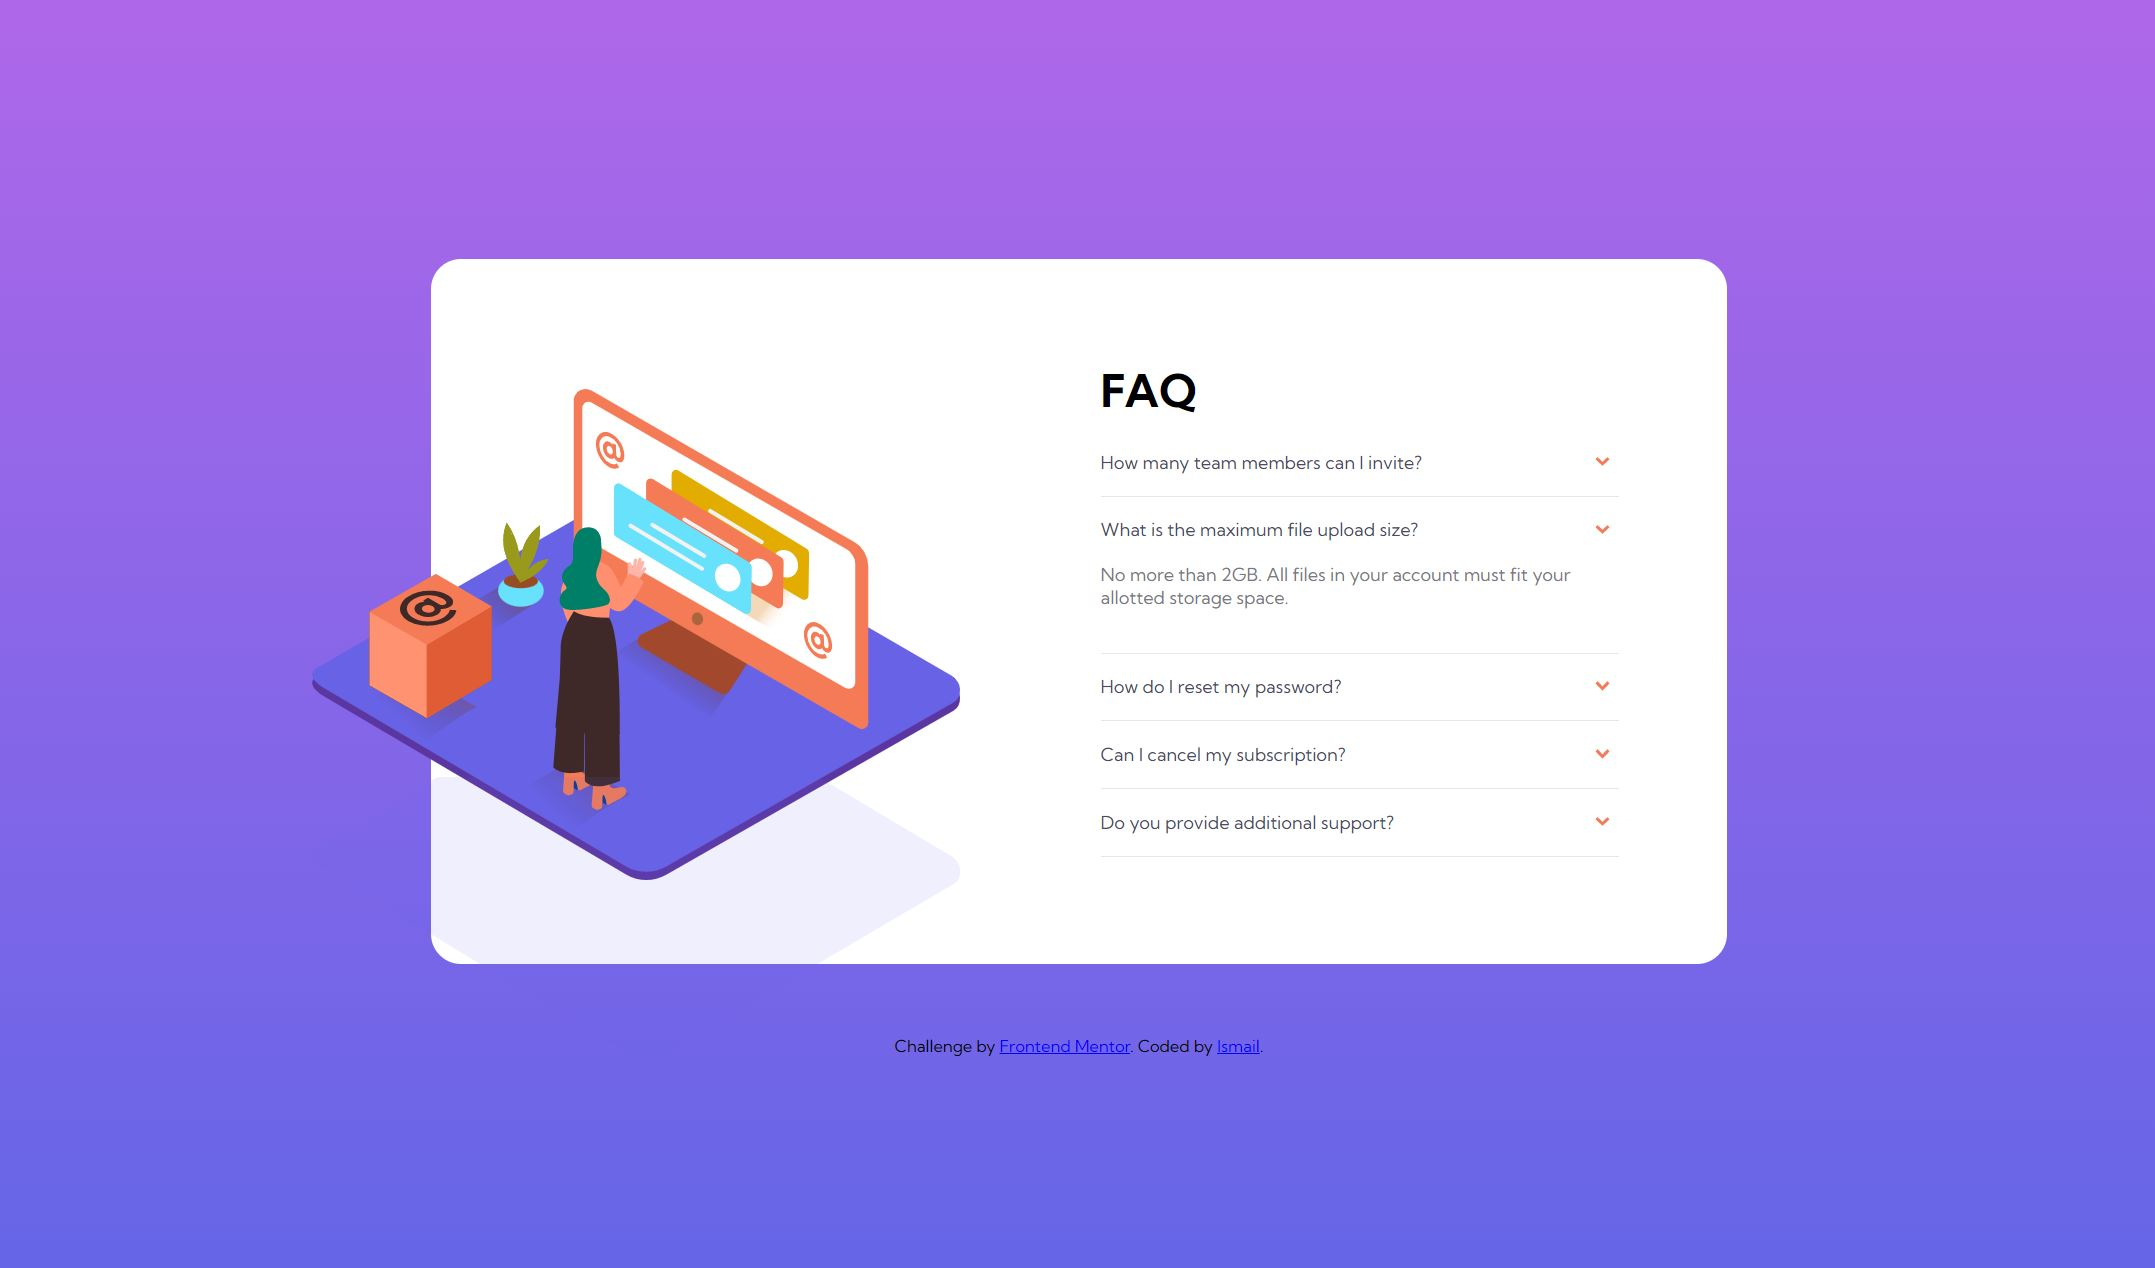
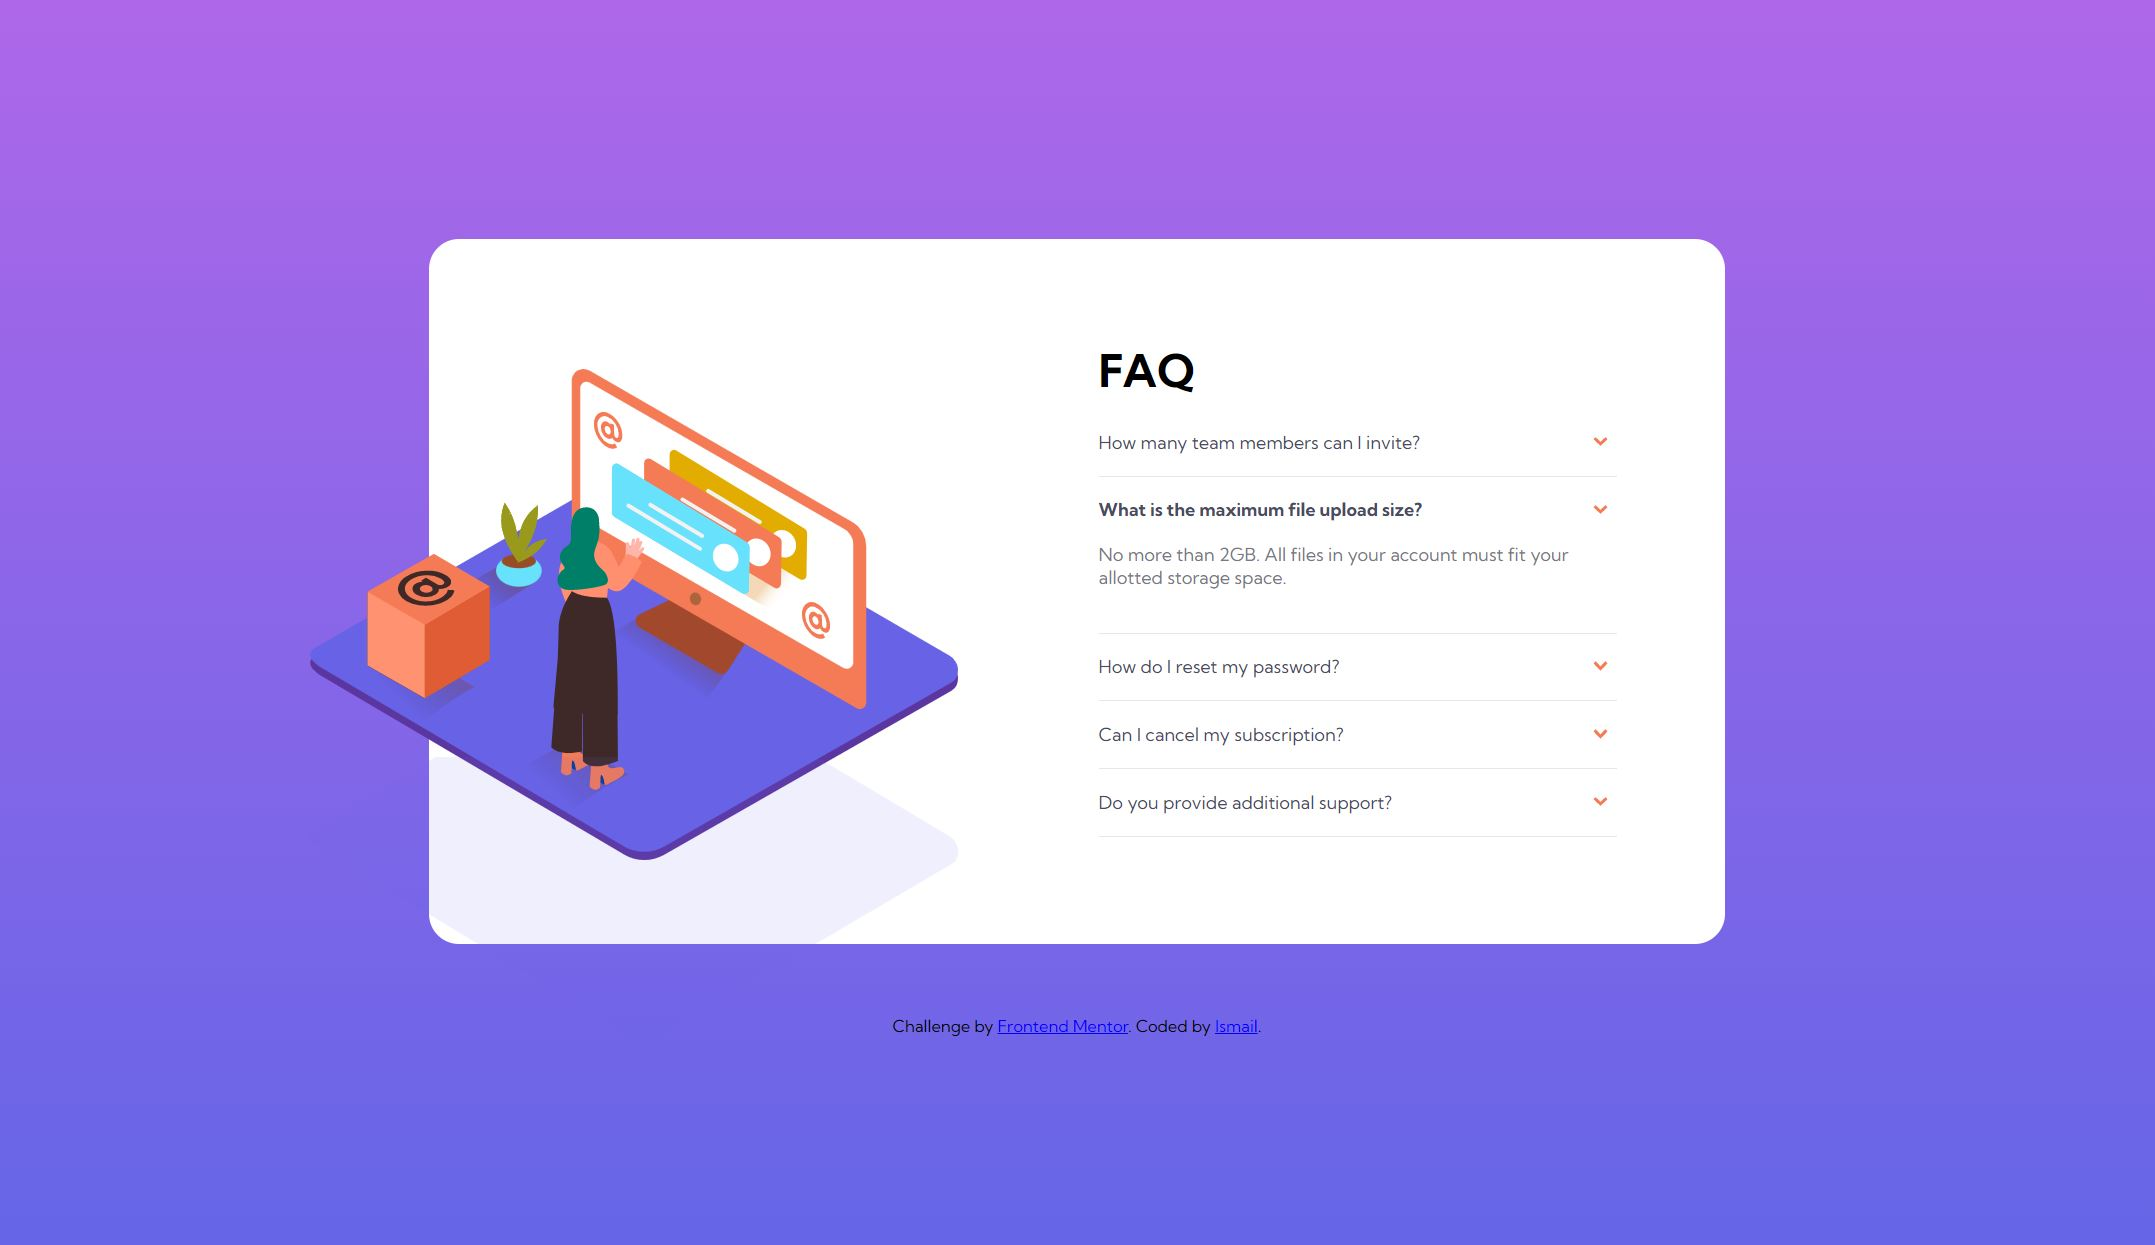
added bold function to the questions on desktop version

diff --git a/app.js b/app.js
@@ -18,18 +18,3 @@ function setClass(els, className, fnName) {
     els[i].classList[fnName](className);
   }
 }
-/*
-var acc = document.getElementsByClassName("accordion");
-var i;
-for (i = 0; i < acc.length; i++) {
-  acc[i].addEventListener("click", function () {
-    this.classList.toggle("active");
-    var panel = this.nextElementSibling;
-    if (panel.style.display === "block") {
-      panel.style.display = "none";
-    } else {
-      panel.style.display = "block";
-      this.style.fontWeight = "700";
-    }
-  });
-}*/

diff --git a/style.css b/style.css
@@ -136,7 +136,6 @@ body {
     clip: rect(auto, auto, auto, 5.5vw);
     */
   }
-
   .image img {
     width: 100%;
   }
@@ -173,7 +172,11 @@ body {
     width: 100%;
     padding: 1vw 0;
   }
-
+  .accordion:hover,
+  .active {
+    cursor: pointer;
+    font-weight: 700;
+  }
   .accordion img {
     margin: 0 0.4vw;
   }
